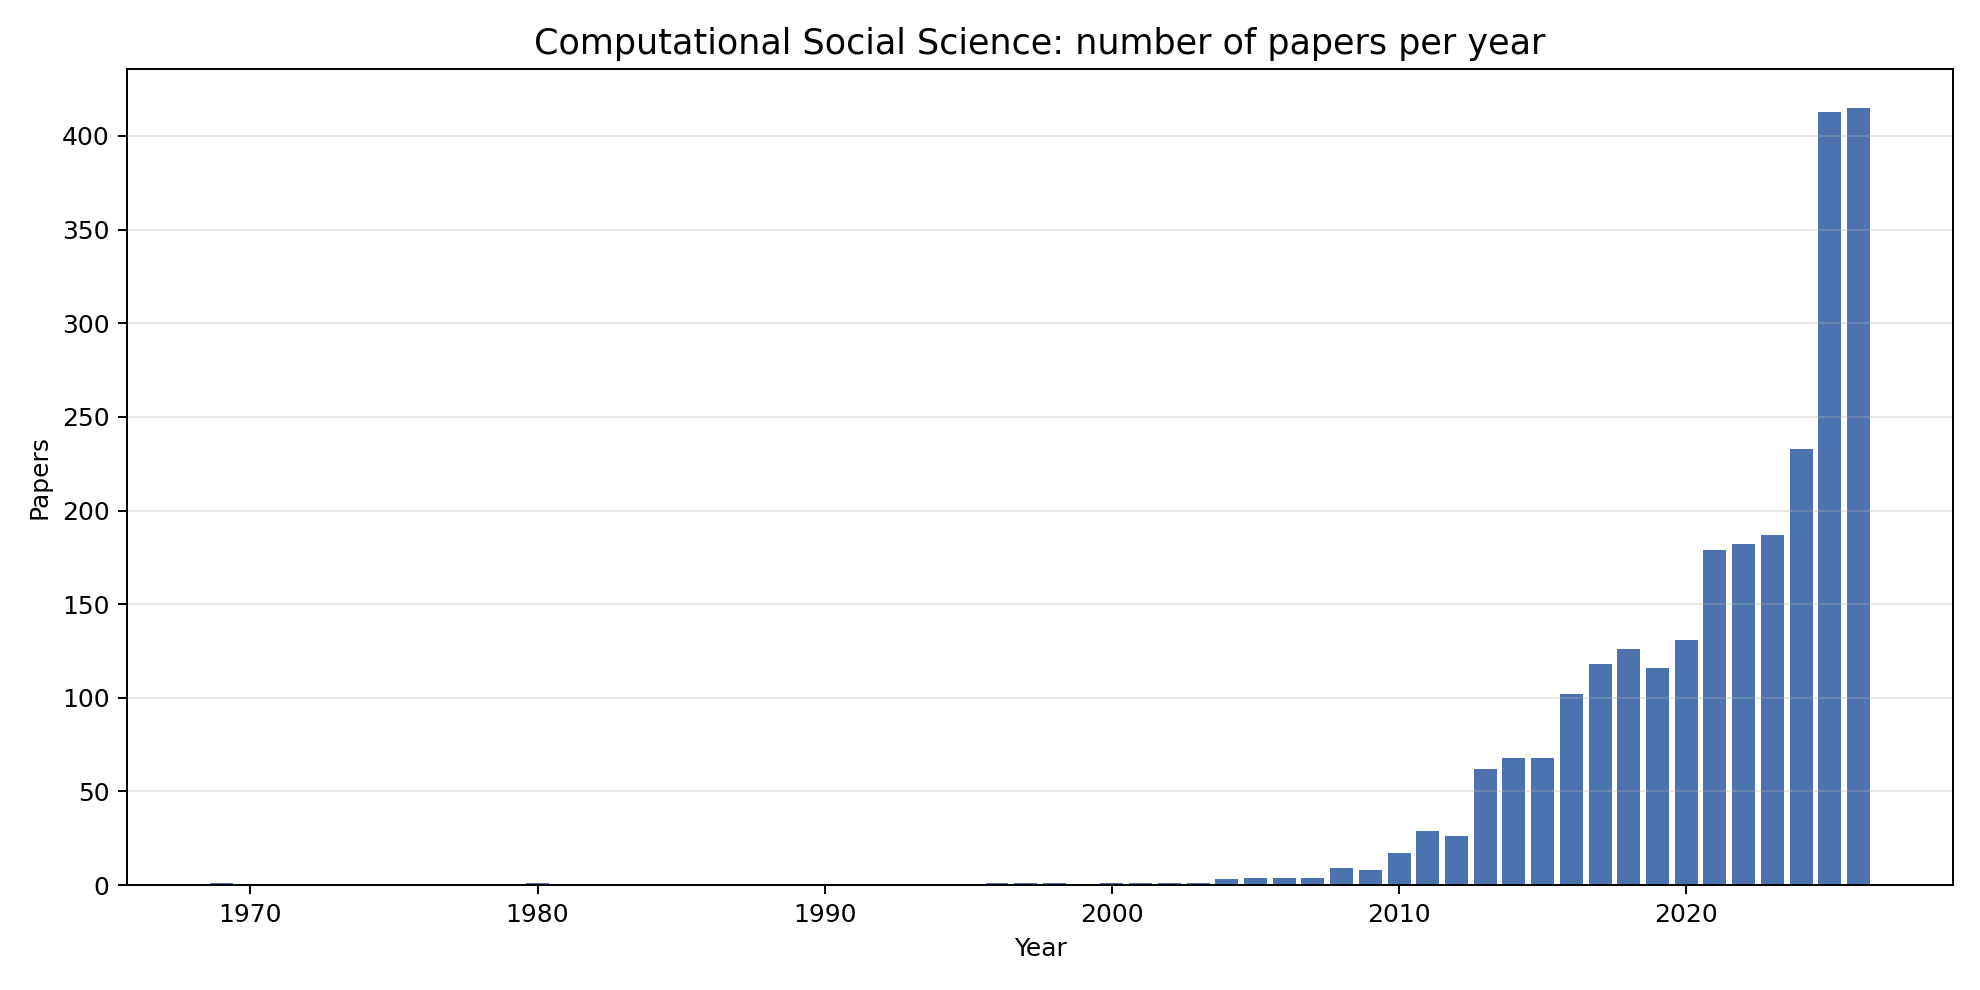
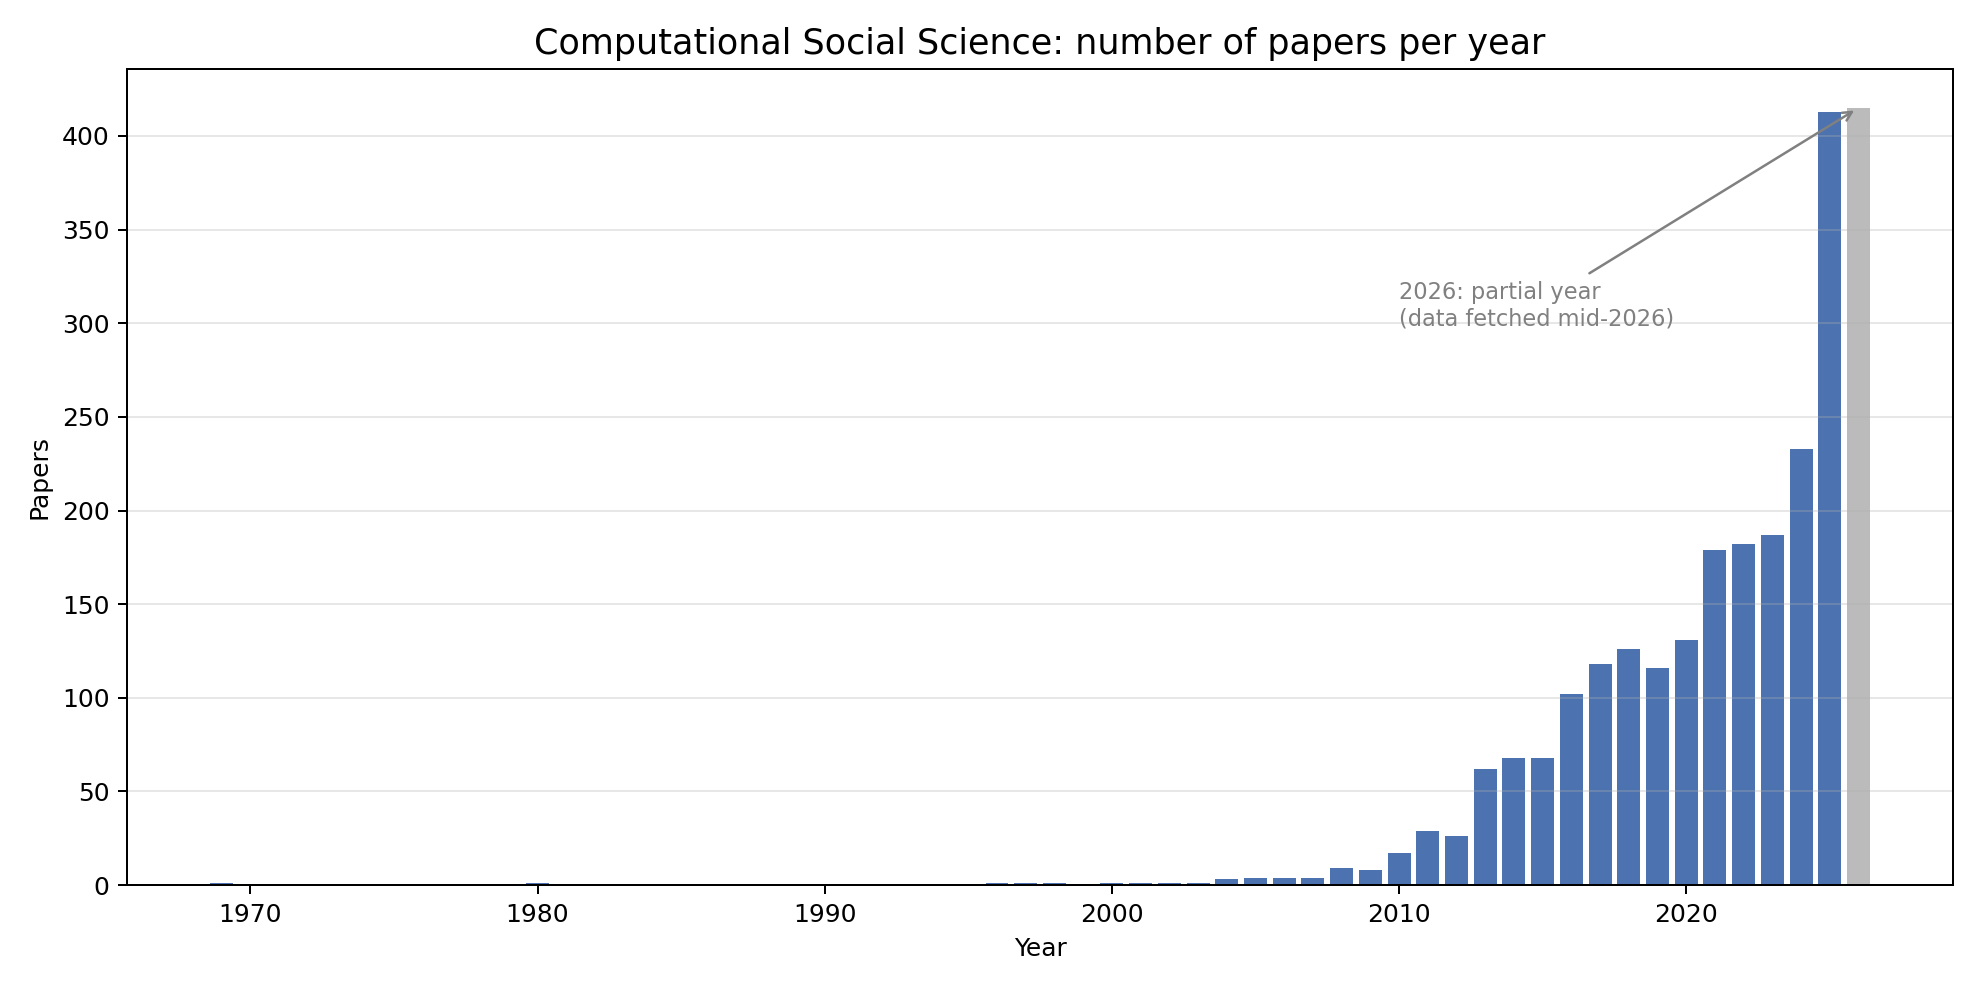
Polish: MIT license, ring-layout school network, partial-year marker
Add LICENSE (MIT). Redraw the co-authorship figure as the 12 largest schools arranged on a ring so clusters no longer overlap in the center, each labeled with its topic words and size. Mark the partial current year in the papers-per-year chart. Update README captions and add a license note.

Changed region(s): [[0.9242, 0.0909, 0.9551, 0.9091], [0.7086, 0.2727, 0.8318, 0.3333]]

diff --git a/find_communities.py b/find_communities.py
@@ -1,20 +1,22 @@
 """
 find_communities.py —— 阶段四:在合作网络里找"学派"(社群),并产出一组真正有用的图。
 
-相比单张"毛球图",这里产出 4 张直接回答问题的图(都存到 figures/):
-  1. papers_per_year.png      —— 逐年论文数:这个领域怎么发展起来的。
+产出 4 张图(都存到 figures/):
+  1. papers_per_year.png      —— 逐年论文数(标注未满整年的当前年)。
   2. top_authors.png          —— 核心作者排行(合作最广 / 发文最多)。
-  3. coauthor_network.png     —— 网络图,但给每个学派标上"主题词",颜色才有意义。
+  3. coauthor_network.png     —— 前 12 大学派排成一圈,互不重叠,各标主题词。
   4. communities_overview.png —— 各学派规模 + 代表主题词一览。
 
 社群发现用内置于 networkx 的 Louvain 算法,只在最大连通块(巨核)上运行。
 """
 
 import json
+import math
 import os
 import re
 import sys
 from collections import Counter
+from datetime import datetime
 
 import matplotlib
 matplotlib.use("Agg")            # 不弹窗,直接存文件
@@ -65,17 +67,25 @@ def top_words(titles, k=8):
 
 
 def fig_papers_per_year(works, path):
-    """图1:逐年论文数。"""
-    years = [w.get("publication_year") for w in works if w.get("publication_year")]
-    c = Counter(years)
+    """图1:逐年论文数;把"未满整年的当前年"用灰色标出,避免误读。"""
+    cur_year = datetime.now().year
+    c = Counter(w.get("publication_year") for w in works if w.get("publication_year"))
     xs = sorted(c)
     ys = [c[y] for y in xs]
+    colors = ["#4C72B0" if y < cur_year else "#BBBBBB" for y in xs]
+
     plt.figure(figsize=(11, 5.5))
-    plt.bar(xs, ys, color="#4C72B0")
+    plt.bar(xs, ys, color=colors)
     plt.title("Computational Social Science: number of papers per year", fontsize=14)
     plt.xlabel("Year")
     plt.ylabel("Papers")
     plt.grid(axis="y", alpha=0.3)
+    if cur_year in c:
+        plt.annotate(f"{cur_year}: partial year\n(data fetched mid-{cur_year})",
+                     xy=(cur_year, c[cur_year]),
+                     xytext=(cur_year - 16, max(ys) * 0.72),
+                     arrowprops=dict(arrowstyle="->", color="gray"),
+                     fontsize=9, color="gray")
     plt.tight_layout()
     plt.savefig(path, dpi=180)
     plt.close()
@@ -107,38 +117,53 @@ def fig_top_authors(G, path, top_n=15):
     plt.close(fig)
 
 
-def fig_network(H, communities, node2comm, comm_titles, path):
-    """图3:网络图,每个较大学派在质心处标主题词。"""
-    deg = dict(H.degree())
-    pos = nx.spring_layout(H, seed=SEED, k=0.15, iterations=50)
+def fig_network(H, communities, comm_titles, path, top_k=12):
+    """图3:前 top_k 大学派各成一团,均匀摆在一个圆环上,互不重叠,外侧标主题词。"""
+    top_comms = communities[:top_k]
+    shown = set().union(*top_comms)
+    HH = H.subgraph(shown)
+    deg = dict(HH.degree())
     cmap = plt.cm.tab20
 
-    node_colors = [cmap(node2comm[a] % 20) for a in H.nodes()]
-    node_sizes = [10 + 4 * deg.get(a, 0) for a in H.nodes()]
+    # 每个学派一个圆环位置;团内部用小型 spring 布局,再缩放、平移到该位置
+    pos = {}
+    node2i = {}
+    centers = []
+    for i, comm in enumerate(top_comms):
+        ang = 2 * math.pi * i / top_k - math.pi / 2     # 从正上方开始排
+        cx, cy = math.cos(ang), math.sin(ang)
+        centers.append((ang, cx, cy, i, comm))
+        sub = HH.subgraph(comm)
+        if sub.number_of_nodes() <= 1:
+            sub_pos = {n: (0.0, 0.0) for n in comm}
+        else:
+            sub_pos = nx.spring_layout(sub, seed=SEED, k=0.6, iterations=50)
+        for node, (x, y) in sub_pos.items():
+            pos[node] = (cx + 0.12 * x, cy + 0.12 * y)
+            node2i[node] = i
 
-    plt.figure(figsize=(16, 16))
-    nx.draw_networkx_edges(H, pos, alpha=0.06, width=0.4)
-    nx.draw_networkx_nodes(H, pos, node_color=node_colors, node_size=node_sizes,
+    node_colors = [cmap(node2i[n] % 20) for n in HH.nodes()]
+    node_sizes = [12 + 4 * deg.get(n, 0) for n in HH.nodes()]
+
+    plt.figure(figsize=(15, 15))
+    nx.draw_networkx_edges(HH, pos, alpha=0.05, width=0.4)
+    nx.draw_networkx_nodes(HH, pos, node_color=node_colors, node_size=node_sizes,
                            linewidths=0.2, edgecolors="white")
 
-    # 给人数 >= 20 的学派,在其质心标上"主题词"(前 2 个),白底框便于阅读
-    for idx, comm in enumerate(communities):
-        if len(comm) < 20:
-            continue
-        xs = [pos[a][0] for a in comm]
-        ys = [pos[a][1] for a in comm]
-        cx, cy = sum(xs) / len(xs), sum(ys) / len(ys)
-        label = ", ".join(top_words(comm_titles[idx], k=2))
-        if not label:
-            continue
-        plt.text(cx, cy, label, fontsize=12, fontweight="bold",
-                 ha="center", va="center",
-                 bbox=dict(boxstyle="round,pad=0.3", fc="white", ec="gray", alpha=0.85))
+    for ang, cx, cy, i, comm in centers:
+        label = ", ".join(top_words(comm_titles[i], k=2)) or f"#{i}"
+        lx, ly = 1.34 * math.cos(ang), 1.34 * math.sin(ang)
+        ha = "left" if math.cos(ang) > 0.2 else ("right" if math.cos(ang) < -0.2 else "center")
+        plt.text(lx, ly, f"{label}\n(n={len(comm)})", fontsize=11, fontweight="bold",
+                 ha=ha, va="center",
+                 bbox=dict(boxstyle="round,pad=0.3", fc="white", ec="gray", alpha=0.9))
 
-    plt.title("Computational Social Science — Co-authorship Network (giant component)\n"
-              f"{H.number_of_nodes()} authors; color = Louvain community, labels = community topic words",
-              fontsize=15)
+    plt.title("Computational Social Science — the 12 largest schools (Louvain communities)\n"
+              "each blob is one school on a ring, labeled with its top title words",
+              fontsize=14)
     plt.axis("off")
+    plt.xlim(-1.75, 1.75)
+    plt.ylim(-1.75, 1.75)
     plt.tight_layout()
     plt.savefig(path, dpi=200, bbox_inches="tight")
     plt.close()
@@ -151,9 +176,7 @@ def fig_communities_overview(communities, comm_titles, path):
     labels = [", ".join(top_words(comm_titles[idx], k=3)) or f"community {idx}"
               for idx, _ in big]
     sizes = [len(comm) for _, comm in big]
-
-    cmap = plt.cm.tab20
-    colors = [cmap(idx % 20) for idx, _ in big]
+    colors = [plt.cm.tab20(idx % 20) for idx, _ in big]
 
     plt.figure(figsize=(12, max(6, 0.5 * len(big))))
     plt.barh(range(len(big)), sizes, color=colors)
@@ -173,7 +196,6 @@ def main():
     works = load_works(WORKS_PATH)
     print(f"网络 {G.number_of_nodes()} 节点 / {G.number_of_edges()} 边;论文 {len(works)} 篇")
 
-    # 巨核 + Louvain
     giant_nodes = max(nx.connected_components(G), key=len)
     H = G.subgraph(giant_nodes).copy()
     communities = sorted(nx_comm.louvain_communities(H, weight="weight", seed=SEED),
@@ -182,7 +204,6 @@ def main():
 
     node2comm = {aid: idx for idx, comm in enumerate(communities) for aid in comm}
 
-    # 每篇论文按"多数作者所属学派"归类,聚合标题
     comm_titles = {idx: [] for idx in range(len(communities))}
     for w in works:
         votes = Counter()
@@ -193,7 +214,6 @@ def main():
         if votes:
             comm_titles[votes.most_common(1)[0][0]].append(w.get("display_name") or "")
 
-    # 控制台速览(人数 >= 8 的学派)
     deg = dict(H.degree())
     for idx, comm in enumerate(communities):
         if len(comm) < 8:
@@ -202,13 +222,12 @@ def main():
         core_names = ", ".join(H.nodes[a].get("name", a) for a in core)
         print(f"学派#{idx}({len(comm)}人) 主题[{', '.join(top_words(comm_titles[idx], 5))}] 核心:{core_names}")
 
-    # 四张图
     print("\n正在生成 4 张图...")
     fig_papers_per_year(works, os.path.join(FIG_DIR, "papers_per_year.png"))
     fig_top_authors(G, os.path.join(FIG_DIR, "top_authors.png"))
-    fig_network(H, communities, node2comm, comm_titles, os.path.join(FIG_DIR, "coauthor_network.png"))
+    fig_network(H, communities, comm_titles, os.path.join(FIG_DIR, "coauthor_network.png"))
     fig_communities_overview(communities, comm_titles, os.path.join(FIG_DIR, "communities_overview.png"))
-    print(f"完成,图已存到 {FIG_DIR}/(papers_per_year / top_authors / coauthor_network / communities_overview).png")
+    print(f"完成,4 张图已存到 {FIG_DIR}/")
 
 
 if __name__ == "__main__":

diff --git a/README.md b/README.md
@@ -45,7 +45,7 @@
 
 ![各学派规模](figures/communities_overview.png)
 
-**合著网络全景**(每个彩色簇 = 一个学派,框内为该学派的主题词)
+**12 大学派全景**(各学派排成一圈、互不重叠;框内是主题词和人数,中间淡线是学派之间的合作)
 
 ![合著网络](figures/coauthor_network.png)
 
@@ -110,4 +110,4 @@ python find_communities.py     # 找社群 + 出 4 张图 -> figures/*.png
 
 学术元数据来自 **OpenAlex**(https://openalex.org),其数据以 CC0 释出。感谢 OpenAlex 提供免费、开放的接口。
 
-本项目为学习用途。
+本项目为学习用途,代码以 **MIT License** 开源(见 [LICENSE](LICENSE))。